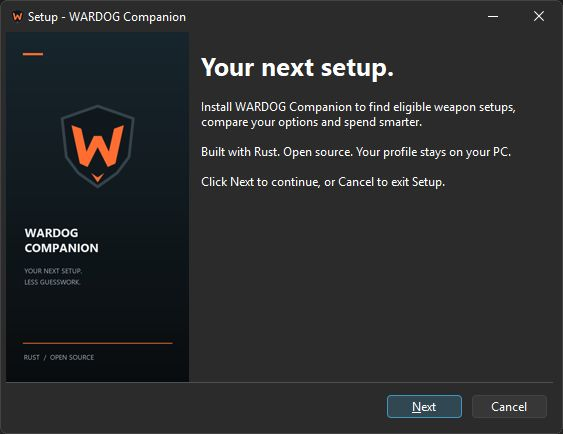
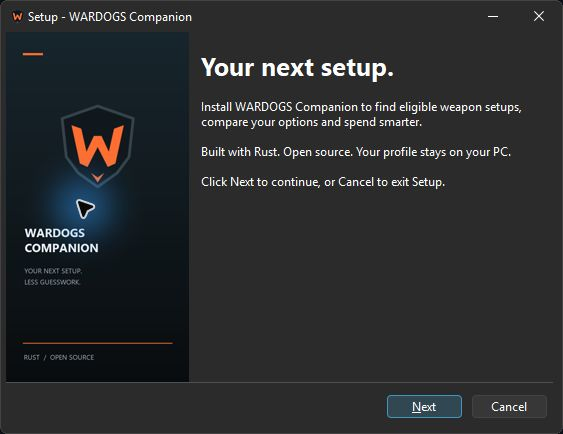
Fix product branding to WARDOGS Companion in 1.0.1

Changed region(s): [[0.0604, 0.3894, 0.2114, 0.5691], [0.5133, 0.2097, 0.9361, 0.2696], [0.2114, 0.03, 0.3623, 0.0599]]

diff --git a/build.rs b/build.rs
@@ -14,7 +14,7 @@ fn main() {
     fs::write(
         &script,
         format!(
-            "1 ICON \"{}\"\n1 VERSIONINFO\nFILEVERSION {numeric}\nPRODUCTVERSION {numeric}\nFILEOS 0x40004\nFILETYPE 1\nBEGIN\n BLOCK \"StringFileInfo\"\n BEGIN\n BLOCK \"040904B0\"\n BEGIN\n VALUE \"CompanyName\", \"Carlos Carvalho and contributors\\0\"\n VALUE \"FileDescription\", \"WARDOG Companion\\0\"\n VALUE \"FileVersion\", \"{version}\\0\"\n VALUE \"ProductName\", \"WARDOG Companion\\0\"\n VALUE \"ProductVersion\", \"{version}\\0\"\n VALUE \"OriginalFilename\", \"wardog-companion.exe\\0\"\n END\n END\n BLOCK \"VarFileInfo\"\n BEGIN\n VALUE \"Translation\", 0x409, 1200\n END\nEND\n",
+            "1 ICON \"{}\"\n1 VERSIONINFO\nFILEVERSION {numeric}\nPRODUCTVERSION {numeric}\nFILEOS 0x40004\nFILETYPE 1\nBEGIN\n BLOCK \"StringFileInfo\"\n BEGIN\n BLOCK \"040904B0\"\n BEGIN\n VALUE \"CompanyName\", \"Carlos Carvalho and contributors\\0\"\n VALUE \"FileDescription\", \"WARDOGS Companion\\0\"\n VALUE \"FileVersion\", \"{version}\\0\"\n VALUE \"ProductName\", \"WARDOGS Companion\\0\"\n VALUE \"ProductVersion\", \"{version}\\0\"\n VALUE \"OriginalFilename\", \"wardog-companion.exe\\0\"\n END\n END\n BLOCK \"VarFileInfo\"\n BEGIN\n VALUE \"Translation\", 0x409, 1200\n END\nEND\n",
             icon.display().to_string().replace('\\', "/"),
         ),
     )

diff --git a/src/main.rs b/src/main.rs
@@ -66,7 +66,7 @@ fn main() -> iced::Result {
         }
     };
     iced::application(App::boot, App::update, App::view)
-        .title(concat!("WARDOG Companion · ", env!("CARGO_PKG_VERSION")))
+        .title(concat!("WARDOGS Companion · ", env!("CARGO_PKG_VERSION")))
         .theme(|_: &App| {
             Theme::custom(
                 "Wardog",
@@ -942,7 +942,7 @@ impl App {
                 .padding([4, 8])
                 .style(panel),
             column![
-                text("WARDOG").size(18).font(Font::MONOSPACE),
+                text("WARDOGS").size(18).font(Font::MONOSPACE),
                 text(concat!("COMPANION · ", env!("CARGO_PKG_VERSION")))
                     .size(9)
                     .color(MUTED)
@@ -1831,7 +1831,7 @@ impl App {
             text("Keep your companion ready.").size(28),
             card(
                 column![
-                    text(concat!("WARDOG Companion ", env!("CARGO_PKG_VERSION"))).size(20),
+                    text(concat!("WARDOGS Companion ", env!("CARGO_PKG_VERSION"))).size(20),
                     text("Windows · Open source · Made with Rust")
                         .size(12)
                         .color(MUTED),

diff --git a/src/instance.rs b/src/instance.rs
@@ -27,7 +27,7 @@ fn acquire_named(name: &str) -> Result<Instance, String> {
         unsafe {
             CloseHandle(handle);
         }
-        return Err("WARDOG Companion is already running.\n\nPress Ctrl + Shift + Space to bring it back, or close the existing copy before opening another.".into());
+        return Err("WARDOGS Companion is already running.\n\nPress Ctrl + Shift + Space to bring it back, or close the existing copy before opening another.".into());
     }
     Ok(Instance { handle })
 }
@@ -45,7 +45,7 @@ pub fn notify(message: &str) {
     #[cfg(windows)]
     {
         let text: Vec<_> = message.encode_utf16().chain(Some(0)).collect();
-        let title: Vec<_> = "WARDOG Companion".encode_utf16().chain(Some(0)).collect();
+        let title: Vec<_> = "WARDOGS Companion".encode_utf16().chain(Some(0)).collect();
         unsafe {
             windows_sys::Win32::UI::WindowsAndMessaging::MessageBoxW(
                 std::ptr::null_mut(),

diff --git a/RELEASE_NOTES.md b/RELEASE_NOTES.md
@@ -1,30 +1,18 @@
-# WARDOG Companion 1.0.0
+# WARDOGS Companion 1.0.1
 
-The first public open-source release: a focused Windows companion for source-backed weapon and attachment decisions.
+Corrects the application name to **WARDOGS Companion**, matching the game's name, **WARDOGS**.
 
-## Included
+- Corrected the window title, app header, update screen and instance notice.
+- Corrected Windows product metadata, installer text, original installer artwork and shortcut names.
+- Updated the README, contribution documentation and screenshots.
+- Setup replaces the original generated shortcuts with the corrected names during upgrade.
 
-- Native Rust + Iced desktop app with an English interface, pinned panel and global hide/show shortcut.
-- Eligible loadout suggestions for Control, Balanced and Agility; class/range recommendations and supported ideal TTK comparisons.
-- Spending alternatives, remaining purchase/unlock costs and useful next unlocks.
-- Personal dataset-impact reports, validated game-data updates and data rollback.
-- Branded per-user Windows installer, Start menu shortcut, optional desktop shortcut and standard uninstaller.
-- On-demand app updates: review release notes, download a size/SHA-256-verified installer, then explicitly choose when to install.
-- Original W/shield icon and embedded Windows version information.
-- MIT-licensed application source, contribution guide, issue/PR templates and Windows CI.
+Existing profiles, ownership, levels, setups and external game data are preserved. The repository URL, executable name, installer AppId and release asset naming remain compatible with 1.0.0, allowing its existing updater to find this patch. There are no recommendation-model or game-data changes.
 
-- Single-instance protection avoids competing copies and shortcuts; Setup/Uninstall require the companion to be closed.
+## Downloads
 
-## Choose your download
+- **WARDOG-Companion-1.0.1-Setup.exe** — Windows x64 per-user installer.
+- **WARDOG-Companion-1.0.1-windows-x64.zip** — portable folder.
+- **SHA256SUMS.txt** — checksums for both downloads.
 
-- **WARDOG-Companion-1.0.0-Setup.exe** — recommended installation for your Windows user; no administrator rights required.
-- **WARDOG-Companion-1.0.0-windows-x64.zip** — portable; extract the entire folder before opening the app.
-- **SHA256SUMS.txt** — download integrity checksums.
-
-Close previous companion copies before installing or opening this release. Existing local profiles are preserved. App updates and game-data updates are separate. A portable copy is not overwritten by the installer.
-
-## Release boundaries
-
-Version 1.0 is not digitally code-signed. Windows may display an unknown-publisher/SmartScreen notice; never disable security features to run it. SHA-256 verification is an integrity check, not publisher signing.
-
-OCR is experimental and requires confirmation. Recommendations use pinned community game-file data; ideal TTK and handling scores are estimates, not measured in-game performance. Unknown or unsupported combinations remain excluded. See README.md, MODELING_LIMITS.md and VALIDATION.md.
+Version 1.0.1 remains unsigned. OCR remains experimental. See README.md and MODELING_LIMITS.md for the existing calculation and coverage limits.

diff --git a/README.md b/README.md
@@ -1,6 +1,6 @@
 <div align="center">
-  <img src="assets/wardog.svg" width="112" alt="WARDOG Companion shield" />
-  <h1>WARDOG Companion</h1>
+  <img src="assets/wardog.svg" width="112" alt="WARDOGS Companion shield" />
+  <h1>WARDOGS Companion</h1>
   <p><strong>Your next setup. Less guesswork.</strong></p>
   <p>A focused Windows companion for WARDOGS, built with Rust.<br />Find eligible weapon setups, compare your options and spend smarter.</p>
   <p>
@@ -18,12 +18,12 @@
 
 Your levels decide what is eligible. Your budget decides what is practical. Your goal decides what to prioritize.
 
-WARDOG Companion brings those decisions into a compact panel you can keep above the game or hide with a shortcut. Set your progression once, choose a weapon, and get a supported setup for **Control**, **Balanced** or **Agility**. Open the details when you want the reasoning; keep them out of the way when you play.
+WARDOGS Companion brings those decisions into a compact panel you can keep above the game or hide with a shortcut. Set your progression once, choose a weapon, and get a supported setup for **Control**, **Balanced** or **Agility**. Open the details when you want the reasoning; keep them out of the way when you play.
 
 **Native Rust + Iced. Offline recommendations. No account. English interface.**
 
 <p align="center">
-  <img src="docs/images/companion.png" width="330" alt="The compact WARDOG Companion panel showing an AK-74 setup" />
+  <img src="docs/images/companion.png" width="330" alt="The compact WARDOGS Companion panel showing an AK-74 setup" />
   <img src="docs/images/spending.png" width="330" alt="Spend smarter screen showing Economy and Sweet spot attachment setups with prices and handling trade-offs" />
   <br /><sub>A real app screenshot. Spending gain is a model score, not measured combat performance.</sub>
 </p>
@@ -51,7 +51,7 @@ With the WARDOGS arsenal in the foreground, **Ctrl + Shift + R** can read a visi
 
 ## Get started
 
-1. Download **`WARDOG-Companion-1.0.0-Setup.exe`** from [Releases](https://github.com/cccarv82/wardog-companion/releases/latest). Install for your Windows user; administrator rights are not required. A portable ZIP is also available.
+1. Download **`WARDOG-Companion-1.0.1-Setup.exe`** from [Releases](https://github.com/cccarv82/wardog-companion/releases/latest). Install for your Windows user; administrator rights are not required. A portable ZIP is also available.
 2. Set your **Overall, Assault, Medic, Recon and Support** levels and your attachment budget. Choose **Done**.
 3. Pick a weapon and a goal. Use **Find my weapon** for a class/range recommendation or **Customize** to keep particular parts.
 4. Choose **Hide & play**. Bring the panel back when you need it.

diff --git a/VALIDATION.md b/VALIDATION.md
@@ -39,3 +39,11 @@ The installer uses original high-resolution artwork and a dark wizard. Native vi
 The final lifecycle fix passed formatting, Clippy, **51 Rust release tests** and a release build. The app now holds a session-local single-instance mutex; its dedicated test confirms duplicate rejection and lock release. Setup/Uninstall checks that mutex. A silent uninstall attempted while the isolated companion was running exited with code 1 and left it intact. After closing the companion normally, uninstall exited successfully, removed its executable and Start menu shortcuts, retained external data, and left the real player profile unchanged.
 
 The first public GitHub Windows CI run passed from the committed source, including all then-current tests, importer checks, release build, portable packaging and artifact upload. The minimal source fixtures also passed importer tests from a clean Git archive. No fake newer public release was created to test upgrades; stable-version and download branches use local fixtures. The final public release assets and production current-version response are checked after publication.
+
+## Branding patch — 1.0.1
+
+2026-10-25: corrected visible branding to WARDOGS Companion. Formatting, Clippy with warnings denied, all 51 Rust release tests, four Python importer tests and the release build passed. Native screenshots were refreshed for the corrected app title/header, spending screen and installer artwork.
+
+A real 1.0.0 installer was installed into an isolated QA directory, then upgraded with the 1.0.1 installer. Windows product metadata reported WARDOGS Companion 1.0.1, the original generated Start menu shortcut was removed, and its corrected replacement existed. The existing external catalogue retained its checksum; the real player's profile checksum was unchanged. The QA installation was uninstalled successfully afterward.
+
+The executable/crate name, profile directory, installation directory, AppId, mutex, GitHub repository URL and WARDOG-Companion download-asset prefix remain stable intentionally. This lets the unmodified 1.0.0 updater locate the newer installer. No recommendation-model or game-data changes were made.

diff --git a/docs/RELEASING.md b/docs/RELEASING.md
@@ -51,3 +51,5 @@ Version 1.0 is unsigned. No signing keys are stored in this repository or workfl
 Game-data rollback is available in the app. App binary rollback is a separate manual operation using an earlier release; automatic rollback and background replacement are not implemented. Retain a profile backup before trying an older application schema. Never overwrite or retag published releases to roll back.
 
 The interactive app holds a session-local named mutex. Uninstall checks the same mutex and refuses to proceed while the companion is running. Diagnostic CLI modes do not acquire it. Close the app before uninstalling; a hidden panel still counts as running.
+
+Branding uses WARDOGS Companion from 1.0.1 onward. The crate/executable name, existing installation/profile directories, AppId, mutex, repository URL and WARDOG-Companion release asset prefix remain stable so 1.0.0 can discover and install the update. Setup migrates the original generated shortcuts to the corrected display name.

diff --git a/THIRD_PARTY_NOTICES.md b/THIRD_PARTY_NOTICES.md
@@ -1,6 +1,6 @@
 # Third-party notices
 
-WARDOG Companion source code and original artwork are MIT licensed; see LICENSE.
+WARDOGS Companion source code and original artwork are MIT licensed; see LICENSE.
 
 The derived catalogue and minimal pinned test fixtures originate from warpuppies/wardogs-data, revision e4ca3e9f1c48d980ba531202642884c358208304. Their Unlicense is retained in data/WARDOGS-DATA-LICENSE.txt and research/wardogs-data/LICENSE. See SOURCES.md for provenance, supplemental compatibility research and modeling boundaries.
 

diff --git a/CODE_OF_CONDUCT.md b/CODE_OF_CONDUCT.md
@@ -1,6 +1,6 @@
 # Code of Conduct
 
-We want WARDOG Companion to be a welcoming place to collaborate, regardless of experience, background or identity.
+We want WARDOGS Companion to be a welcoming place to collaborate, regardless of experience, background or identity.
 
 - Be respectful, specific and constructive. Critique ideas and code without attacking people.
 - Make space for newcomers and different perspectives. Assume good intent while taking feedback seriously.

diff --git a/CONTRIBUTING.md b/CONTRIBUTING.md
@@ -1,4 +1,4 @@
-# Contributing to WARDOG Companion
+# Contributing to WARDOGS Companion
 
 Thank you for helping make loadout decisions easier. We welcome focused fixes, better explanations, validated data corrections and thoughtful improvements to the Windows experience.
 
